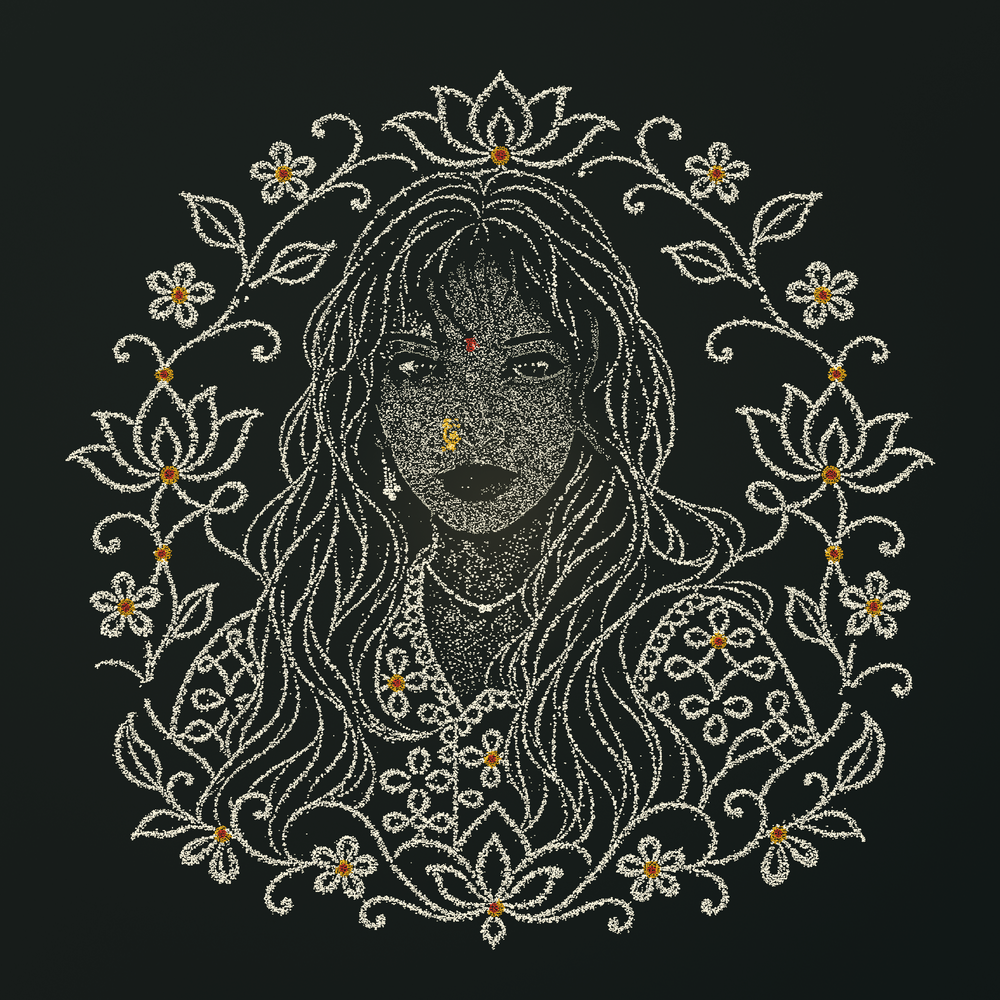
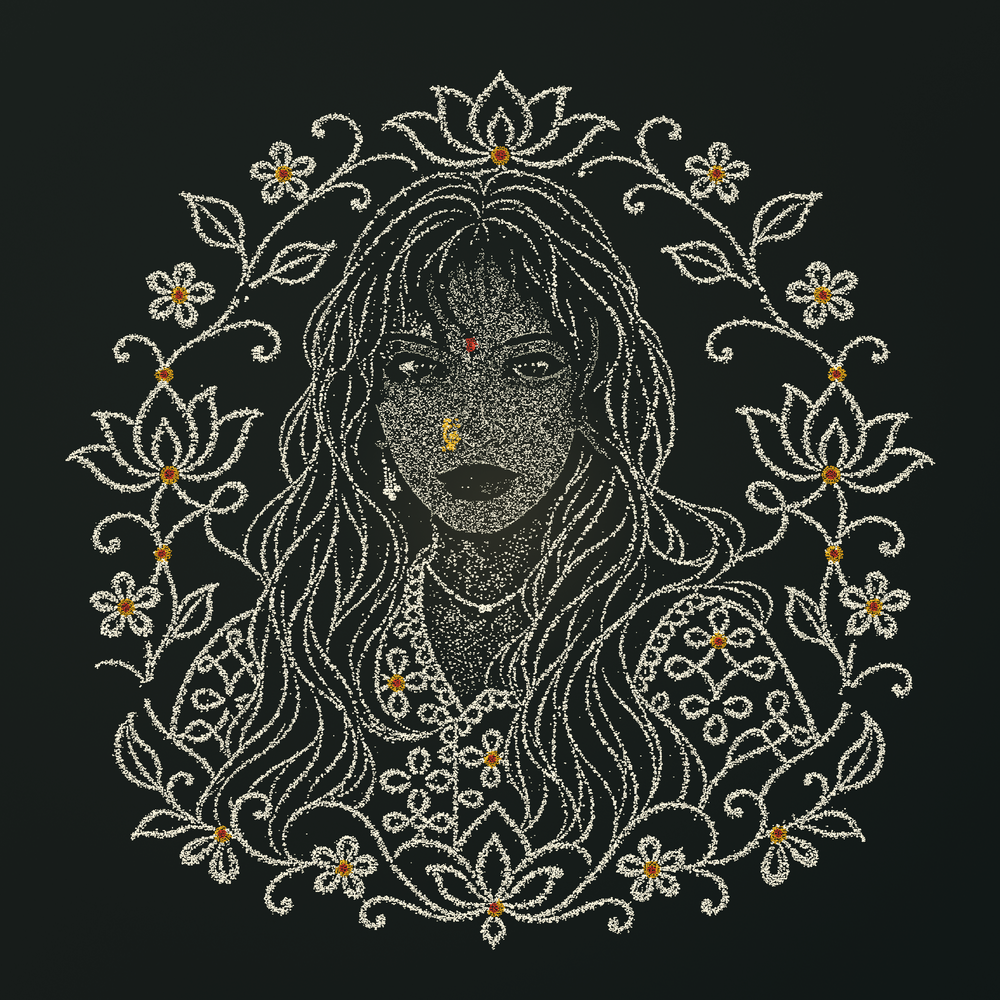
v17

Changed region(s): [[0.372, 0.248, 0.589, 0.558]]

diff --git a/kolam/src/render.js b/kolam/src/render.js
@@ -1,5 +1,5 @@
-import {randomFromSeed} from './random.js?v=20261121-pixel-trace-7';
-import {resolution} from './flour.js?v=20261121-pixel-trace-7';
+import {randomFromSeed} from './random.js?v=20261121-pixel-trace-8';
+import {resolution} from './flour.js?v=20261121-pixel-trace-8';
 export function createRenderer(canvas,path){
   const ground=document.createElement('canvas'),powder=document.createElement('canvas');
   const c=canvas.getContext('2d'),g=ground.getContext('2d'),f=powder.getContext('2d');
@@ -50,7 +50,7 @@ export function createRenderer(canvas,path){
   function drawAnt(ant){
     if(ant.mode==='resting')return;
     c.save();c.translate(cx+ant.x*scale,cy+ant.y*scale);c.rotate(ant.angle);
-    const size=Math.max(18,scale*.22)*(ant.scale||1),stride=ant.mode==='feeding'?0:Math.sin(ant.gait);
+    const size=Math.max(14,scale*.18)*(ant.scale||1),stride=ant.mode==='feeding'?0:Math.sin(ant.gait);
     c.lineCap='round';c.lineJoin='round';
     // Six long, jointed legs sit behind the body so they remain easy to read.
     for(let side=-1;side<=1;side+=2)for(let leg=0;leg<3;leg++){

diff --git a/kolam/src/flour.js b/kolam/src/flour.js
@@ -1,6 +1,6 @@
-import {randomFromSeed,accentsForSeed} from './random.js?v=20261121-pixel-trace-7';
-import {pointAt} from './kolam.js?v=20261121-pixel-trace-7';
-import {rasterEasterEggs} from './easter-egg-raster-data.js?v=20261121-pixel-trace-7';
+import {randomFromSeed,accentsForSeed} from './random.js?v=20261121-pixel-trace-8';
+import {pointAt} from './kolam.js?v=20261121-pixel-trace-8';
+import {rasterEasterEggs} from './easter-egg-raster-data.js?v=20261121-pixel-trace-8';
 export const resolution=256;
 export function cellAt(flour,x,y){
   const col=Math.floor((x/flour.extent+.5)*resolution),row=Math.floor((y/flour.extent+.5)*resolution);

diff --git a/kolam/src/ants.js b/kolam/src/ants.js
@@ -1,5 +1,5 @@
-import {randomFromSeed} from './random.js?v=20261121-pixel-trace-7';
-import {collectFlour,cellAt} from './flour.js?v=20261121-pixel-trace-7';
+import {randomFromSeed} from './random.js?v=20261121-pixel-trace-8';
+import {collectFlour,cellAt} from './flour.js?v=20261121-pixel-trace-8';
 const trailSize=80,capacity=90;
 const turn=(a,b)=>Math.atan2(Math.sin(b-a),Math.cos(b-a));
 function trailCell(world,x,y){const col=Math.floor((x/world.extent+.5)*trailSize),row=Math.floor((y/world.extent+.5)*trailSize);return col<0||row<0||col>=trailSize||row>=trailSize?-1:row*trailSize+col;}

diff --git a/kolam/src/playback.js b/kolam/src/playback.js
@@ -1,5 +1,5 @@
-import {createDay,finishDrawing,stepDay} from './day.js?v=20261121-pixel-trace-7';
-import {createRenderer} from './render.js?v=20261121-pixel-trace-7';
+import {createDay,finishDrawing,stepDay} from './day.js?v=20261121-pixel-trace-8';
+import {createRenderer} from './render.js?v=20261121-smaller-ants';
 export function mountKolam(canvas,seed,onRenew=()=>{},family){
   let day=createDay(seed,family),render=createRenderer(canvas,day.path);
   const motion=matchMedia('(prefers-reduced-motion: reduce)');

diff --git a/kolam/src/day.js b/kolam/src/day.js
@@ -1,6 +1,6 @@
-import {constructKolam} from './kolam.js?v=20261121-pixel-trace-7';
-import {createFlour,advanceFlour} from './flour.js?v=20261121-pixel-trace-7';
-import {createAnts,stepAnts} from './ants.js?v=20261121-pixel-trace-7';
+import {constructKolam} from './kolam.js?v=20261121-pixel-trace-8';
+import {createFlour,advanceFlour} from './flour.js?v=20261121-pixel-trace-8';
+import {createAnts,stepAnts} from './ants.js?v=20261121-pixel-trace-8';
 
 export const drawingDuration=42;
 

diff --git a/kolam/src/kolam.js b/kolam/src/kolam.js
@@ -1,5 +1,5 @@
-import {randomFromSeed,accentsForSeed} from './random.js?v=20261121-pixel-trace-7';
-import {createEasterEgg} from './easter-eggs.js?v=20261121-pixel-trace-7';
+import {randomFromSeed,accentsForSeed} from './random.js?v=20261121-pixel-trace-8';
+import {createEasterEgg} from './easter-eggs.js?v=20261121-pixel-trace-8';
 const TAU=Math.PI*2,opening=Math.PI/4-.055;
 
 // X crossing, D uncrossed join, B unjoined loops. This selects a single-strand

diff --git a/kolam/index.html b/kolam/index.html
@@ -32,6 +32,6 @@
                 <p id="notice" role="status" aria-live="polite"></p>
             </div>
         </details>
-        <script type="module" src="src/main.js?v=20261121-pixel-trace-7"></script>
+        <script type="module" src="src/main.js?v=20261121-pixel-trace-8"></script>
     </body>
 </html>

diff --git a/kolam/src/main.js b/kolam/src/main.js
@@ -1,4 +1,4 @@
-import {mountKolam} from './playback.js?v=20261121-pixel-trace-7';
+import {mountKolam} from './playback.js?v=20261121-pixel-trace-8';
 
 const canvas=document.querySelector('canvas');
 const menu=document.querySelector('#menu');
